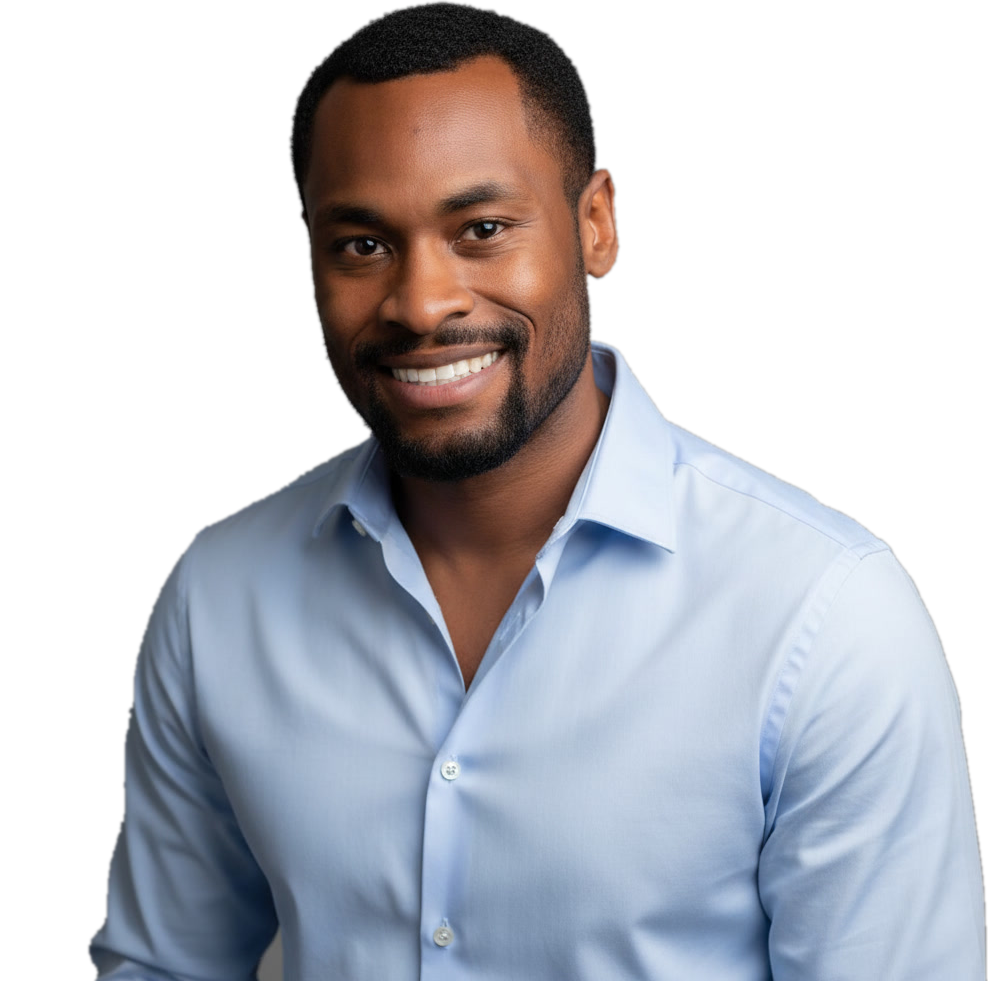
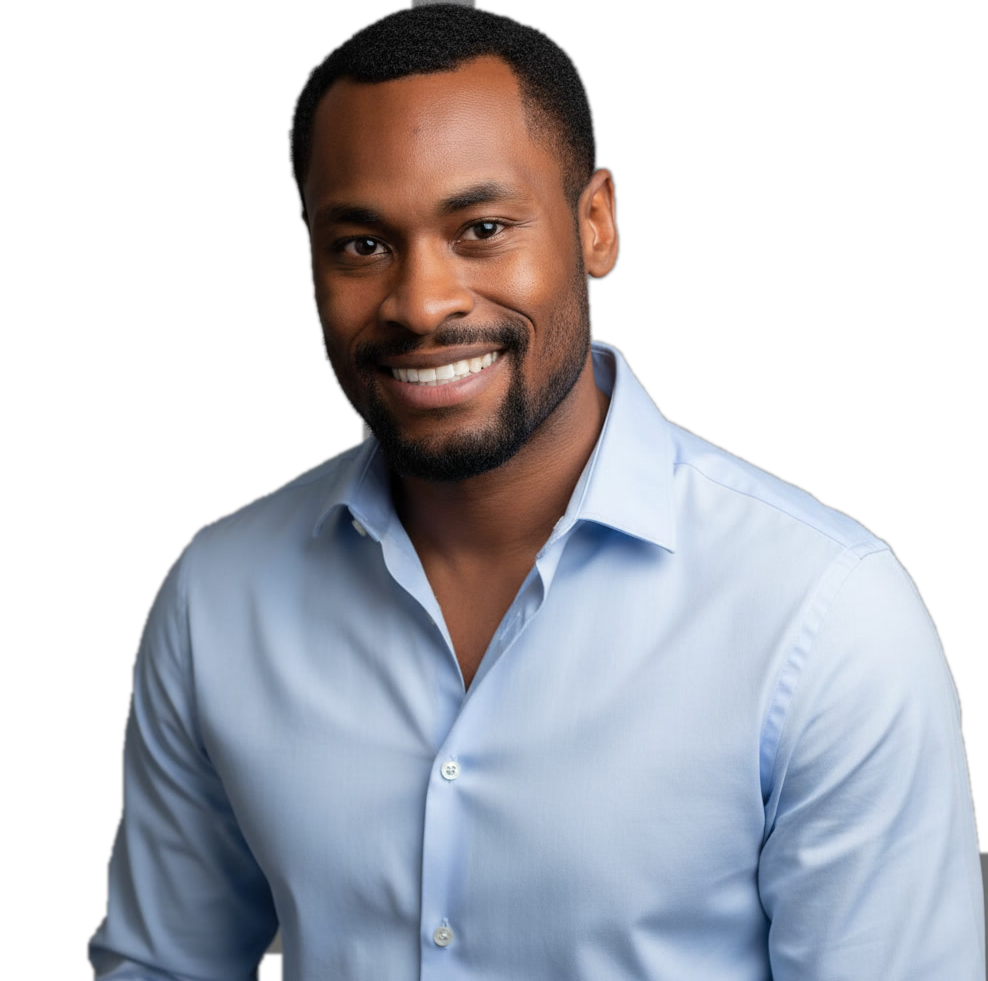
Cut out hero photo background, remove frame/box around it
Background-removed quincy.png (GrabCut segmentation) so the photo
floats directly on the navy background like the reference site,
instead of sitting in a bordered/boxed card. Dropped the rounded
border/bg-slate-800/shadow classes on the hero <img> accordingly.

diff --git a/flirt-psychologie-paket/index.html b/flirt-psychologie-paket/index.html
@@ -40,7 +40,7 @@
         <div class="absolute -inset-4 rounded-[2rem] bg-gradient-to-br from-indigo-500/25 via-transparent to-amber-500/20 blur-2xl"></div>
         <!-- Ersetze dieses Bild durch dein professionelles Foto: <img src="DEIN-FOTO.jpg" ...> -->
         <img src="assets/img/quincy.png" alt="Quincy – Dating-Coach für Männer"
-             class="relative z-10 mx-auto w-full rounded-[2rem] border border-white/10 bg-slate-800 object-cover shadow-2xl" />
+             class="relative z-10 mx-auto w-full object-contain drop-shadow-2xl" />
         <div class="absolute -bottom-4 left-1/2 z-20 -translate-x-1/2 whitespace-nowrap rounded-full border border-white/10 bg-slate-800/90 px-5 py-2 text-sm font-semibold text-white backdrop-blur">
           <i class="fa-solid fa-user-check mr-2 text-indigo-400"></i>Coach Quincy
         </div>
